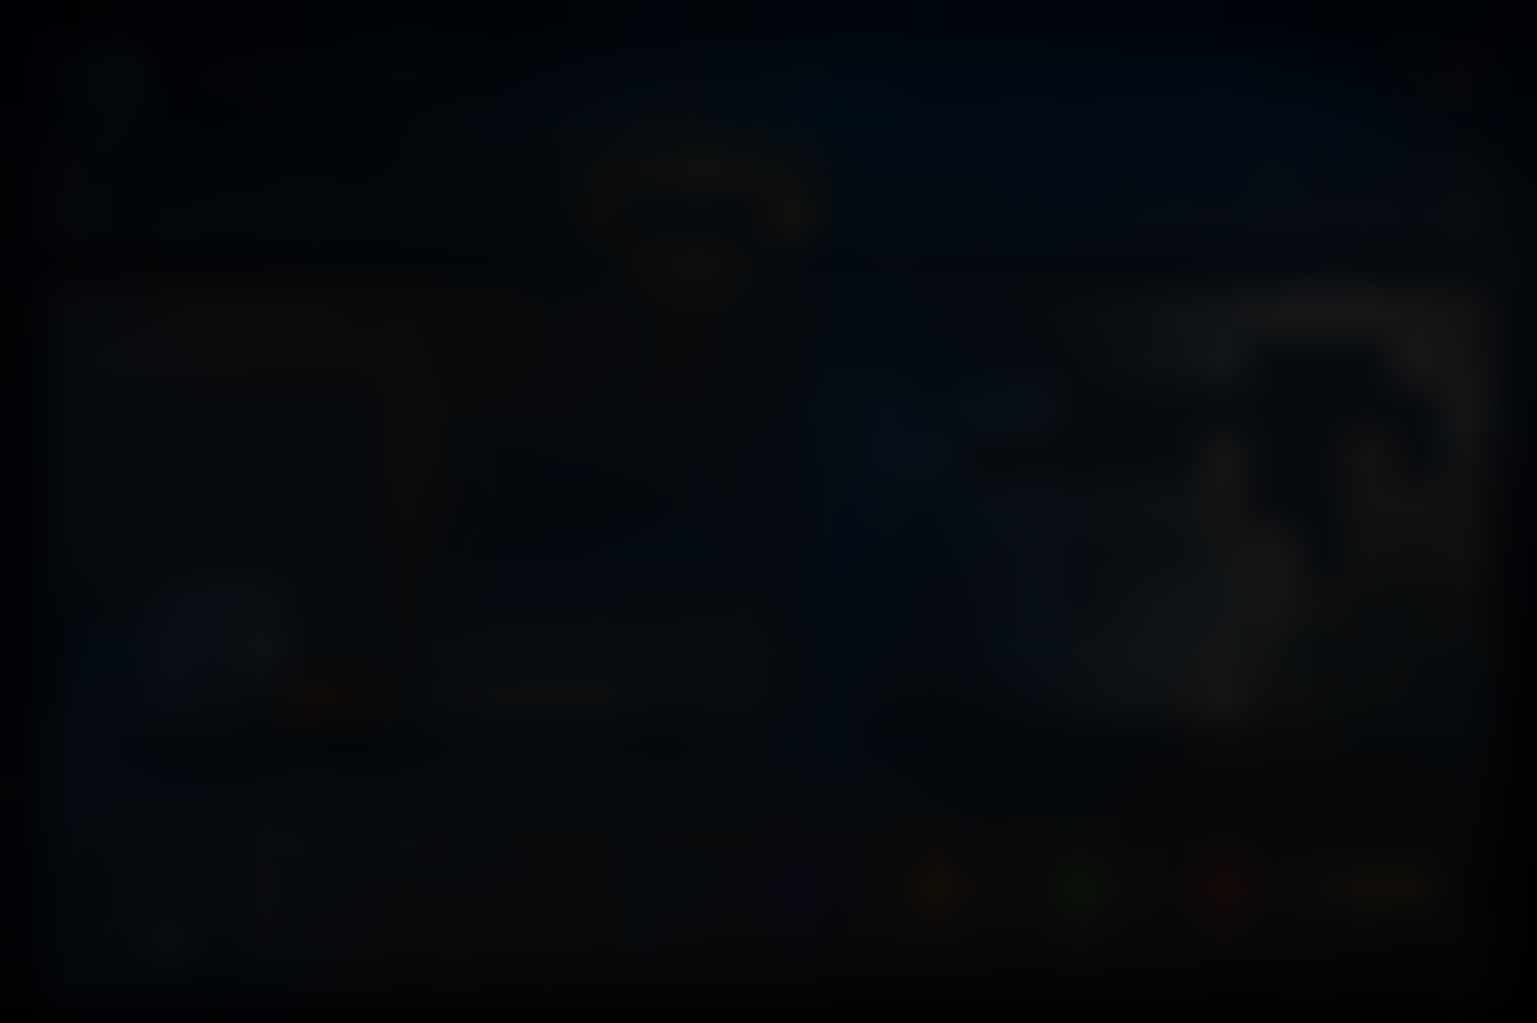
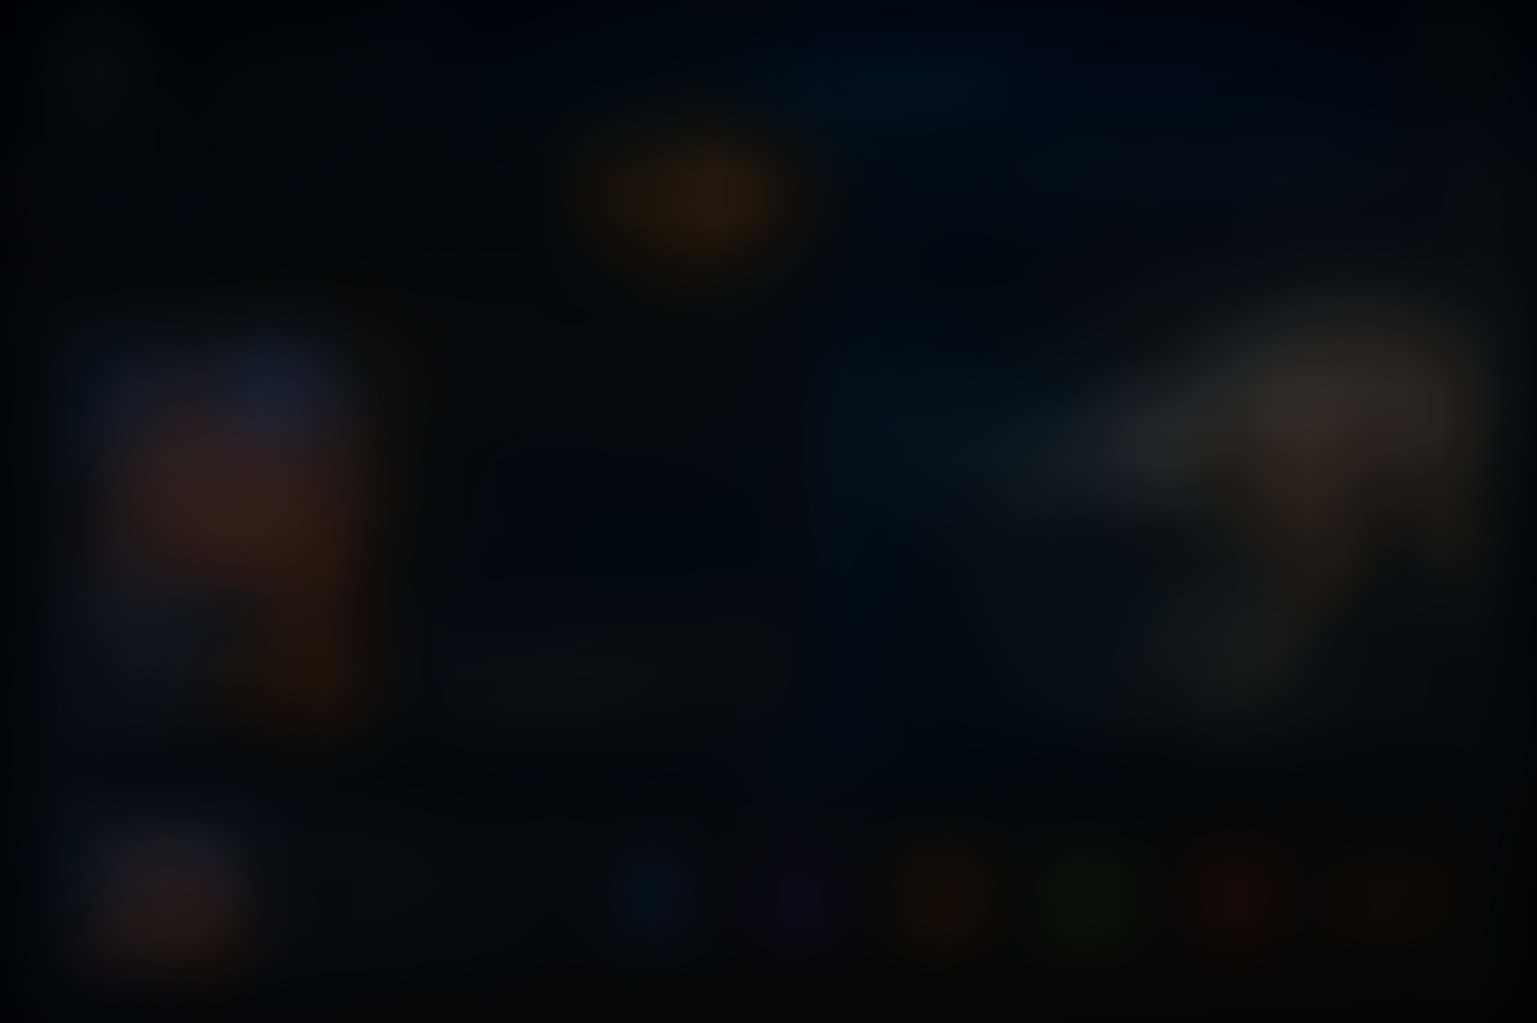
fix: fundo fiel a referencia (brilho azul no topo), topbar e modal transparentes com molduras da referencia

diff --git a/css/base.css b/css/base.css
@@ -302,8 +302,7 @@ body.intro-active { overflow: hidden; }
     justify-content: space-between;
     padding: 16px 28px;
     border-bottom: 1px solid var(--border);
-    background: rgba(10, 10, 15, 0.85);
-    backdrop-filter: blur(16px);
+    background: transparent;
     position: sticky;
     top: 0;
     z-index: 100;
@@ -788,18 +787,22 @@ body.intro-active { overflow: hidden; }
 
 .modal { position: fixed; inset: 0; z-index: 9000; display: flex; align-items: center; justify-content: center; }
 .modal[hidden] { display: none; }
-.modal-backdrop { position: absolute; inset: 0; background: rgba(0,0,0,0.7); backdrop-filter: blur(8px); }
+.modal-backdrop { position: absolute; inset: 0; background: rgba(5, 10, 18, 0.55); backdrop-filter: blur(3px); }
 .modal-panel {
     position: relative;
-    background: linear-gradient(180deg, rgba(22, 22, 31, 0.97), rgba(17, 17, 24, 0.95));
-    border: 1px solid var(--border-gold);
-    border-radius: calc(var(--radius-lg) + 4px);
+    background: transparent;
+    border-style: solid;
+    border-color: transparent;
+    border-width: clamp(22px, 2.6vmin, 34px) clamp(18px, 2vmin, 26px);
+    border-image-source: url("../assets/frames/modal_frame.png");
+    border-image-slice: 126 94 143 91;
+    border-image-width: clamp(22px, 2.6vmin, 34px) clamp(18px, 2vmin, 26px);
+    border-image-repeat: stretch;
     padding: 32px;
     min-width: min(92vw, 340px);
     max-height: 90vh;
     overflow-y: auto;
     z-index: 2;
-    box-shadow: 0 20px 60px rgba(0,0,0,0.35);
 }
 
 .modal-close-button {
